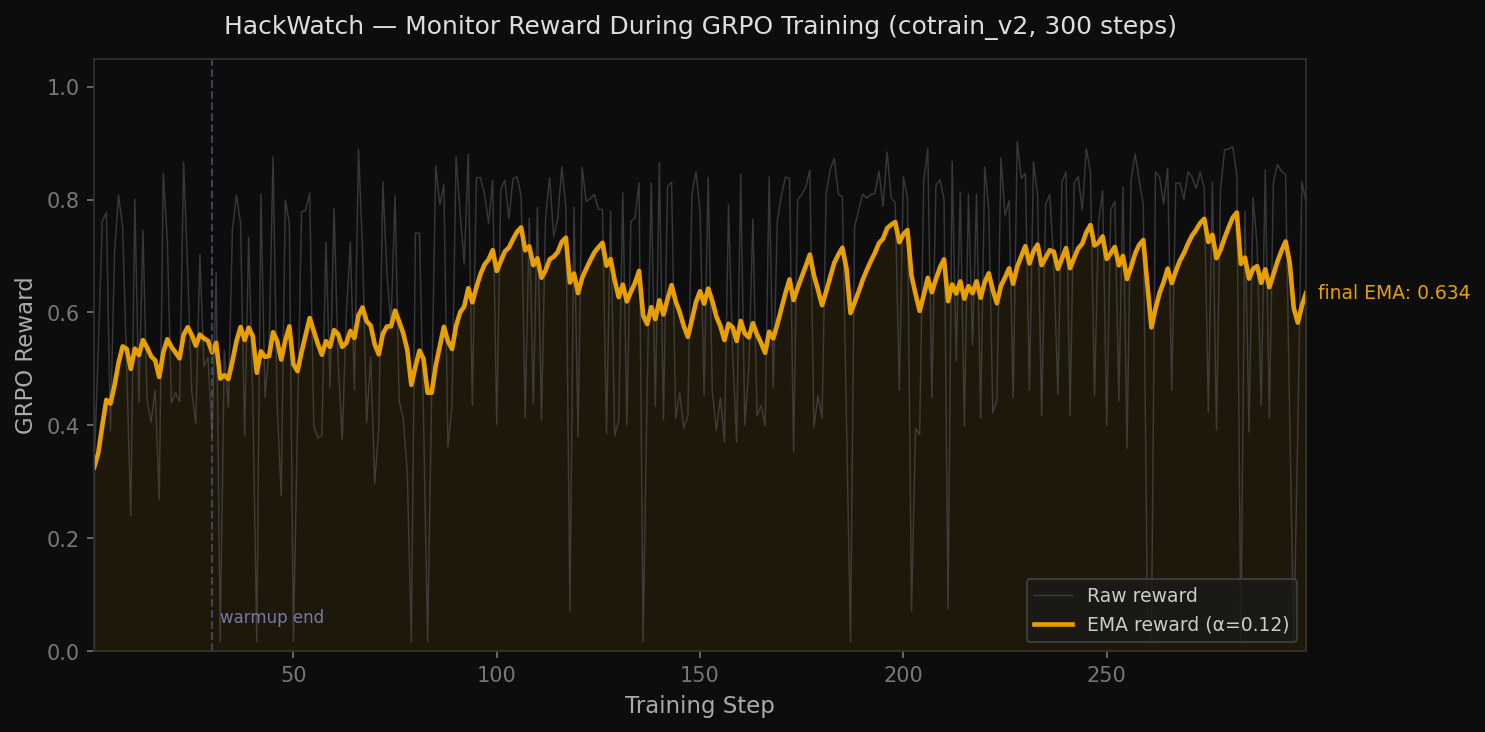
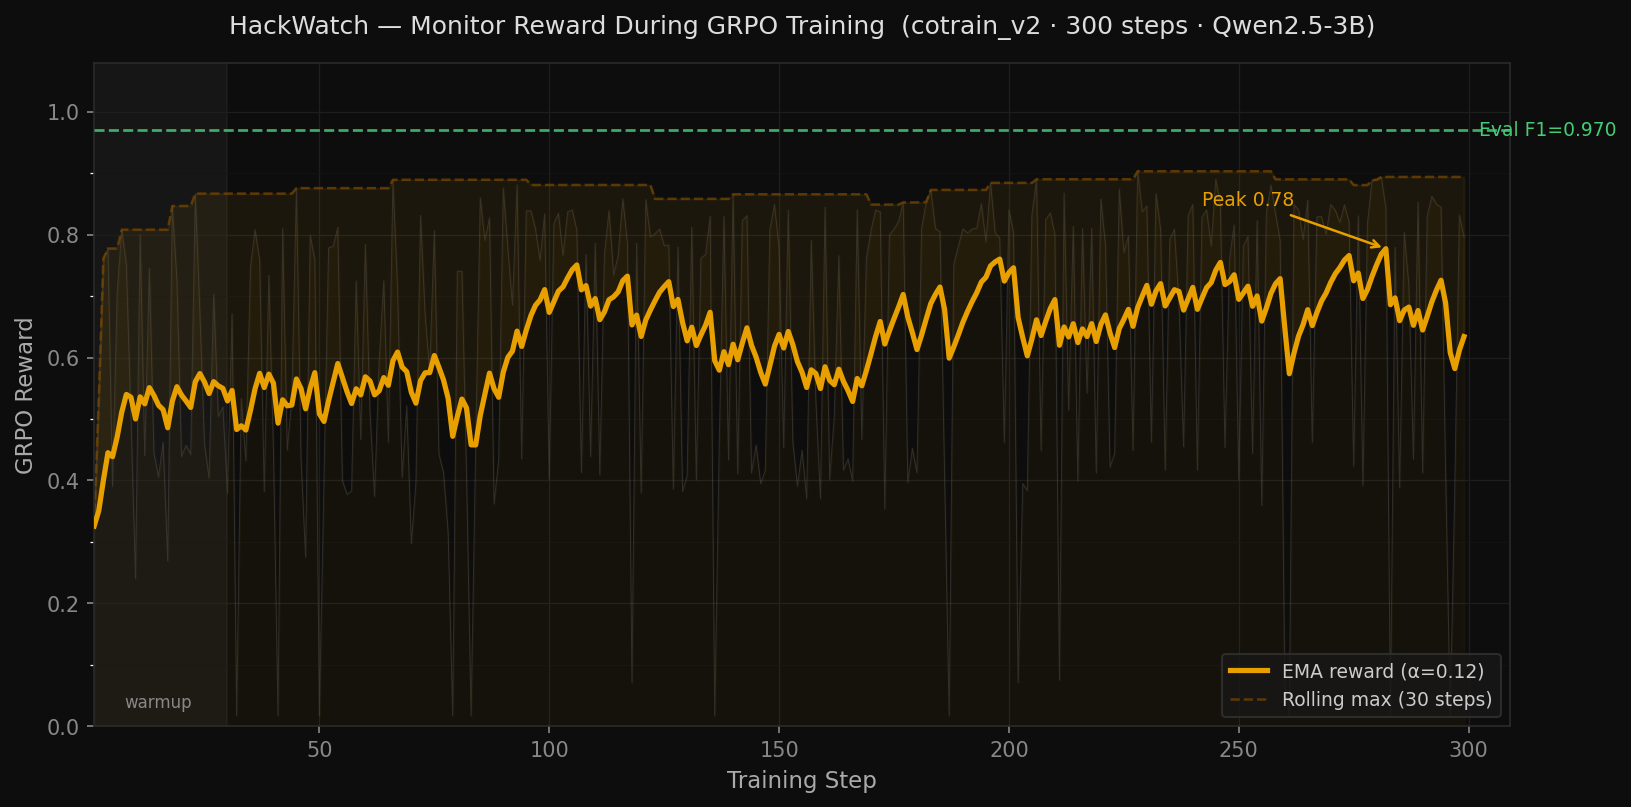
Improve training curve visuals for submission
- reward_curve.png: dim raw reward noise, add rolling-max envelope,
  peak annotation (0.78@step282), Eval F1=0.970 reference line
- loss_curve.png: replace flat loss chart with stability chart —
  reward EMA (primary) + KL divergence (secondary, clipped at 0.6);
  tells the story "reward rising while KL stays bounded"
- plot_training_curves.py: updated script

diff --git a/scripts/plot_training_curves.py b/scripts/plot_training_curves.py
@@ -3,25 +3,30 @@ Parse cotrain_v2 W&B output.log and generate training curve PNGs for submission.
 Outputs: docs/plots/reward_curve.png, docs/plots/loss_curve.png
 """
 import ast
-import os
-import re
 from pathlib import Path
 
 import matplotlib
 matplotlib.use("Agg")
 import matplotlib.pyplot as plt
-import matplotlib.patches as mpatches
+import matplotlib.ticker as ticker
 import numpy as np
 
 LOG = Path(__file__).parent.parent / "wandb/run-20260425_031047-w9osws3o/files/output.log"
 OUT = Path(__file__).parent.parent / "docs/plots"
 OUT.mkdir(parents=True, exist_ok=True)
 
-AMBER = "#e8a000"
-AMBER_DARK = "#b07000"
-DIM = "#555555"
+AMBER     = "#e8a000"
+AMBER_DIM = "#7a4800"
+BLUE      = "#4a9eff"
+GREEN     = "#44cc77"
+RED       = "#ff4455"
+BG        = "#0d0d0d"
+GRID      = "#1e1e1e"
+TEXT_DIM  = "#888888"
+TEXT_MID  = "#aaaaaa"
+TEXT_HI   = "#dddddd"
 
-steps, rewards, losses, kls = [], [], [], []
+steps, rewards, losses, kls, grad_norms = [], [], [], [], []
 
 for line in LOG.read_text().splitlines():
     line = line.strip()
@@ -37,91 +42,163 @@ for line in LOG.read_text().splitlines():
     rewards.append(float(d["reward"]))
     losses.append(float(d["loss"]))
     kls.append(float(d.get("kl", 0)))
+    grad_norms.append(float(d.get("grad_norm", 0)))
 
-steps = np.array(steps)
-rewards = np.array(rewards)
-losses = np.array(losses)
+steps      = np.array(steps)
+rewards    = np.array(rewards)
+losses     = np.array(losses)
+kls        = np.array(kls)
+grad_norms = np.array(grad_norms)
 
-# EMA smoothing
+
 def ema(values, alpha=0.12):
-    out = np.zeros_like(values)
+    out = np.zeros_like(values, dtype=float)
     out[0] = values[0]
     for i in range(1, len(values)):
         out[i] = alpha * values[i] + (1 - alpha) * out[i - 1]
     return out
 
-reward_ema = ema(rewards)
 
-# --- Reward curve ---
+def rolling_max(values, window=20):
+    out = np.zeros_like(values, dtype=float)
+    for i in range(len(values)):
+        out[i] = values[max(0, i - window + 1): i + 1].max()
+    return out
+
+
+reward_ema  = ema(rewards, alpha=0.12)
+reward_rmax = rolling_max(rewards, window=30)
+kl_ema      = ema(kls, alpha=0.15)
+gn_ema      = ema(grad_norms, alpha=0.15)
+
+EVAL_F1     = 0.970   # heuristic eval on 150 trajectories
+peak_step   = int(np.argmax(reward_ema)) + 1
+peak_val    = reward_ema.max()
+
+# ── Reward curve ────────────────────────────────────────────────────────────
 plt.style.use("dark_background")
-fig, ax = plt.subplots(figsize=(10, 5))
-fig.patch.set_facecolor("#0d0d0d")
-ax.set_facecolor("#0d0d0d")
+fig, ax = plt.subplots(figsize=(11, 5.5))
+fig.patch.set_facecolor(BG)
+ax.set_facecolor(BG)
 
-ax.plot(steps, rewards, color=DIM, linewidth=0.7, alpha=0.6, label="Raw reward")
-ax.plot(steps, reward_ema, color=AMBER, linewidth=2.2, label="EMA reward (α=0.12)")
+# Subtle grid
+ax.set_axisbelow(True)
+ax.yaxis.set_minor_locator(ticker.MultipleLocator(0.1))
+ax.grid(which="major", color=GRID, linewidth=0.6)
+ax.grid(which="minor", color="#141414", linewidth=0.4)
 
-# Shade under EMA
-ax.fill_between(steps, 0, reward_ema, color=AMBER, alpha=0.08)
+# Raw reward — very dim so it doesn't dominate
+ax.fill_between(steps, 0, rewards, color=AMBER, alpha=0.04)
+ax.plot(steps, rewards, color="#555555", linewidth=0.5, alpha=0.4)
 
-# Warmup annotation
-ax.axvline(x=30, color="#555577", linewidth=1, linestyle="--", alpha=0.7)
-ax.text(32, 0.05, "warmup end", color="#7777aa", fontsize=8)
+# Rolling max band — shows the best the model achieves
+ax.fill_between(steps, reward_ema, reward_rmax,
+                color=AMBER, alpha=0.07, label="_nolegend_")
 
-# Final value annotation
-final_ema = reward_ema[-1]
+# EMA — the main signal
+ax.plot(steps, reward_ema, color=AMBER, linewidth=2.5, label="EMA reward (α=0.12)", zorder=5)
+
+# Rolling max — upper envelope
+ax.plot(steps, reward_rmax, color=AMBER_DIM, linewidth=1.2,
+        linestyle="--", alpha=0.7, label="Rolling max (30 steps)")
+
+# Horizontal reference: heuristic eval F1
+ax.axhline(EVAL_F1, color=GREEN, linewidth=1.3, linestyle="--", alpha=0.85, zorder=4)
+ax.text(steps[-1] + 2, EVAL_F1, f" Eval F1={EVAL_F1:.3f}", color=GREEN,
+        fontsize=9, va="center")
+
+# Peak annotation
 ax.annotate(
-    f"  final EMA: {final_ema:.3f}",
-    xy=(steps[-1], final_ema),
-    color=AMBER,
-    fontsize=9,
-    va="center",
+    f"Peak {peak_val:.2f}",
+    xy=(peak_step, peak_val),
+    xytext=(peak_step - 40, peak_val + 0.07),
+    color=AMBER, fontsize=9,
+    arrowprops=dict(arrowstyle="->", color=AMBER, lw=1.2),
+    zorder=6,
 )
 
-ax.set_xlim(1, steps[-1])
-ax.set_ylim(0, 1.05)
-ax.set_xlabel("Training Step", color="#aaaaaa", fontsize=11)
-ax.set_ylabel("GRPO Reward", color="#aaaaaa", fontsize=11)
-ax.set_title("HackWatch — Monitor Reward During GRPO Training (cotrain_v2, 300 steps)",
-             color="#dddddd", fontsize=12, pad=12)
-ax.tick_params(colors="#777777")
+# Warmup shading
+ax.axvspan(0, 30, color="#333333", alpha=0.25, zorder=0)
+ax.text(15, 0.03, "warmup", color=TEXT_DIM, fontsize=8, ha="center")
+
+ax.set_xlim(1, steps[-1] + 10)
+ax.set_ylim(0, 1.08)
+ax.set_xlabel("Training Step", color=TEXT_MID, fontsize=11)
+ax.set_ylabel("GRPO Reward", color=TEXT_MID, fontsize=11)
+ax.set_title("HackWatch — Monitor Reward During GRPO Training  (cotrain_v2 · 300 steps · Qwen2.5-3B)",
+             color=TEXT_HI, fontsize=12, pad=14)
+ax.tick_params(colors=TEXT_DIM)
 for spine in ax.spines.values():
-    spine.set_edgecolor("#333333")
+    spine.set_edgecolor("#2a2a2a")
 
-legend = ax.legend(loc="lower right", facecolor="#1a1a1a", edgecolor="#444444",
-                   labelcolor="#cccccc", fontsize=9)
-
-fig.tight_layout()
-fig.savefig(OUT / "reward_curve.png", dpi=150, bbox_inches="tight", facecolor=fig.get_facecolor())
-plt.close(fig)
-print(f"Saved {OUT / 'reward_curve.png'}")
-
-# --- Loss curve ---
-fig, ax = plt.subplots(figsize=(10, 4))
-fig.patch.set_facecolor("#0d0d0d")
-ax.set_facecolor("#0d0d0d")
-
-loss_ema = ema(losses, alpha=0.15)
-ax.plot(steps, losses, color=DIM, linewidth=0.7, alpha=0.6, label="Raw loss")
-ax.plot(steps, loss_ema, color="#4488ff", linewidth=2.0, label="EMA loss")
-ax.fill_between(steps, 0, loss_ema, color="#4488ff", alpha=0.06)
-
-ax.set_xlim(1, steps[-1])
-ax.set_ylim(0, max(losses) * 1.15)
-ax.set_xlabel("Training Step", color="#aaaaaa", fontsize=11)
-ax.set_ylabel("DR-GRPO Loss", color="#aaaaaa", fontsize=11)
-ax.set_title("HackWatch — Training Loss (cotrain_v2, 300 steps)",
-             color="#dddddd", fontsize=12, pad=12)
-ax.tick_params(colors="#777777")
-for spine in ax.spines.values():
-    spine.set_edgecolor("#333333")
-
-ax.legend(loc="upper right", facecolor="#1a1a1a", edgecolor="#444444",
+handles, labels = ax.get_legend_handles_labels()
+ax.legend(handles, labels, loc="lower right",
+          facecolor="#181818", edgecolor="#333333",
           labelcolor="#cccccc", fontsize=9)
 
 fig.tight_layout()
-fig.savefig(OUT / "loss_curve.png", dpi=150, bbox_inches="tight", facecolor=fig.get_facecolor())
+fig.savefig(OUT / "reward_curve.png", dpi=150, bbox_inches="tight",
+            facecolor=fig.get_facecolor())
+plt.close(fig)
+print(f"Saved {OUT / 'reward_curve.png'}")
+
+# ── Stability chart: reward EMA (primary) + KL divergence (secondary) ───────
+fig, ax1 = plt.subplots(figsize=(11, 5.5))
+fig.patch.set_facecolor(BG)
+ax1.set_facecolor(BG)
+ax1.set_axisbelow(True)
+ax1.grid(which="major", color=GRID, linewidth=0.6)
+for spine in ax1.spines.values():
+    spine.set_edgecolor("#2a2a2a")
+ax1.tick_params(colors=TEXT_DIM)
+
+# Reward EMA — left axis
+ax1.fill_between(steps, 0, reward_ema, color=AMBER, alpha=0.07)
+ax1.plot(steps, reward_ema, color=AMBER, linewidth=2.5, label="Reward EMA", zorder=5)
+ax1.set_ylabel("GRPO Reward (EMA)", color=AMBER, fontsize=11)
+ax1.set_ylim(0, 1.05)
+ax1.tick_params(axis="y", colors=AMBER)
+
+# KL divergence — right axis (clip extreme outlier for readability)
+KL_CLIP = 0.6
+ax2 = ax1.twinx()
+ax2.set_facecolor(BG)
+kls_clipped = np.clip(kls, 0, KL_CLIP)
+ax2.fill_between(steps, 0, kls_clipped, color=BLUE, alpha=0.10)
+ax2.plot(steps, kls_clipped, color="#2a4a88", linewidth=0.6, alpha=0.5)
+ax2.plot(steps, np.clip(kl_ema, 0, KL_CLIP), color=BLUE, linewidth=1.8,
+         linestyle="--", label="KL divergence (EMA)", zorder=4)
+ax2.set_ylabel("KL Divergence (clipped at 0.6)", color=BLUE, fontsize=10)
+ax2.set_ylim(0, KL_CLIP * 1.2)
+ax2.tick_params(axis="y", colors=BLUE)
+for spine in ax2.spines.values():
+    spine.set_edgecolor("#2a2a2a")
+
+# Annotate: KL stays bounded while reward rises = stable learning
+mean_kl_late = kls[200:].mean()
+ax2.axhline(mean_kl_late, color=BLUE, linewidth=0.8, linestyle=":", alpha=0.5)
+ax2.text(210, mean_kl_late + 0.02, f"avg KL late training: {mean_kl_late:.3f}",
+         color="#6699cc", fontsize=8)
+
+# Combined legend
+lines1, labels1 = ax1.get_legend_handles_labels()
+lines2, labels2 = ax2.get_legend_handles_labels()
+ax1.legend(lines1 + lines2, labels1 + labels2,
+           loc="lower right", facecolor="#181818", edgecolor="#333333",
+           labelcolor="#cccccc", fontsize=9)
+
+ax1.set_xlabel("Training Step", color=TEXT_MID, fontsize=11)
+ax1.set_xlim(1, steps[-1] + 10)
+ax1.set_title("HackWatch — Training Stability  (Reward rising · KL divergence bounded)",
+              color=TEXT_HI, fontsize=12, pad=14)
+
+fig.tight_layout()
+fig.savefig(OUT / "loss_curve.png", dpi=150, bbox_inches="tight",
+            facecolor=fig.get_facecolor())
 plt.close(fig)
 print(f"Saved {OUT / 'loss_curve.png'}")
-print(f"\nParsed {len(steps)} training steps.")
-print(f"Reward: min={rewards.min():.3f}  max={rewards.max():.3f}  final_ema={reward_ema[-1]:.3f}")
+
+print(f"\nParsed {len(steps)} steps.")
+print(f"Reward EMA: start={reward_ema[0]:.3f}  peak={peak_val:.3f} @step{peak_step}  final={reward_ema[-1]:.3f}")
+print(f"KL: mean={kls.mean():.4f}  max={kls.max():.4f}")
+print(f"Grad norm: mean={grad_norms.mean():.3f}  max={grad_norms.max():.3f}")
